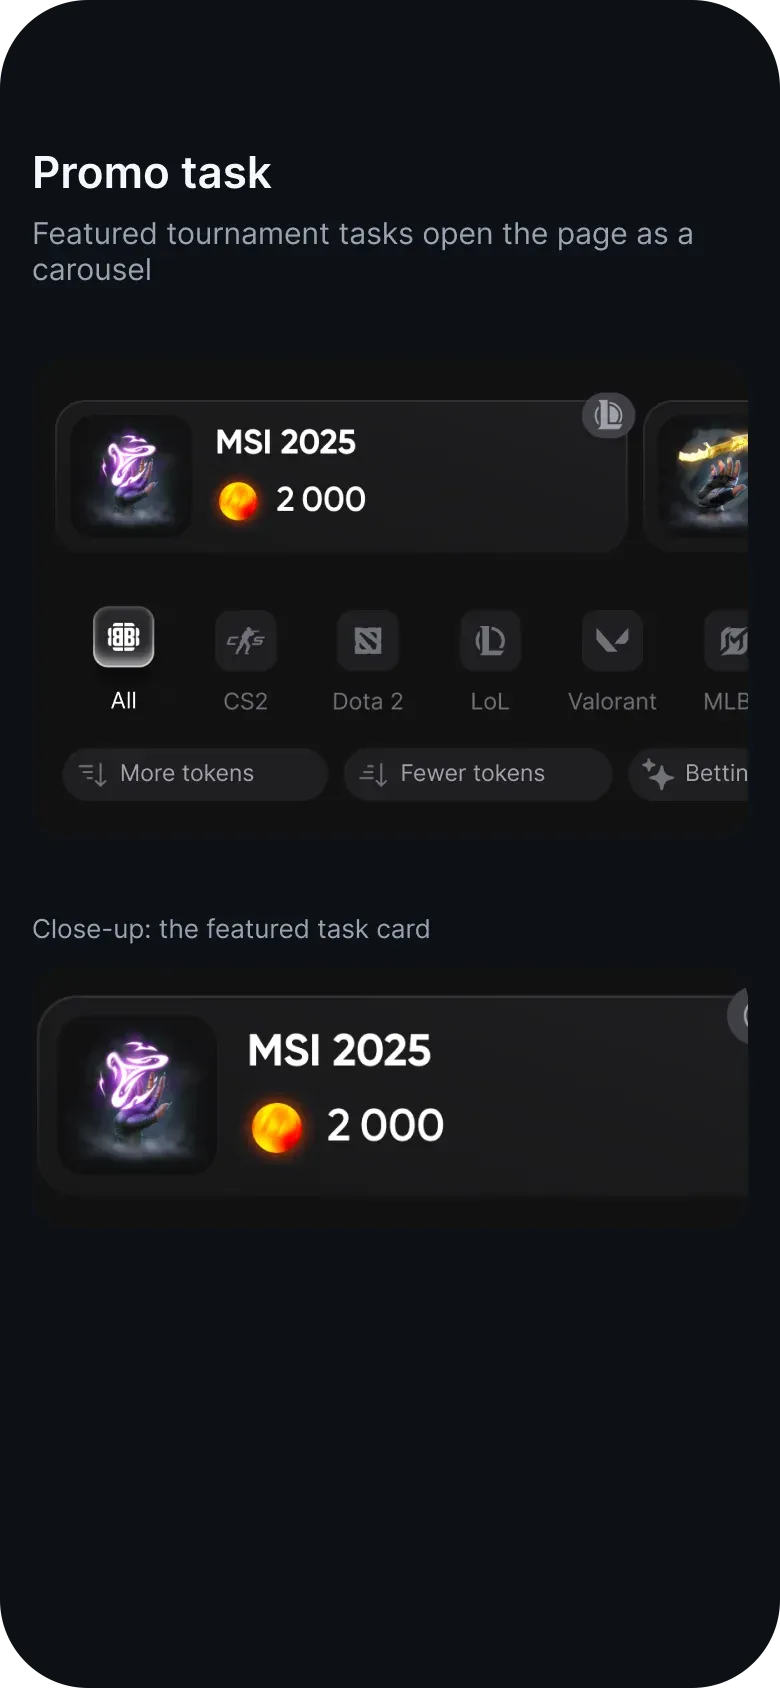
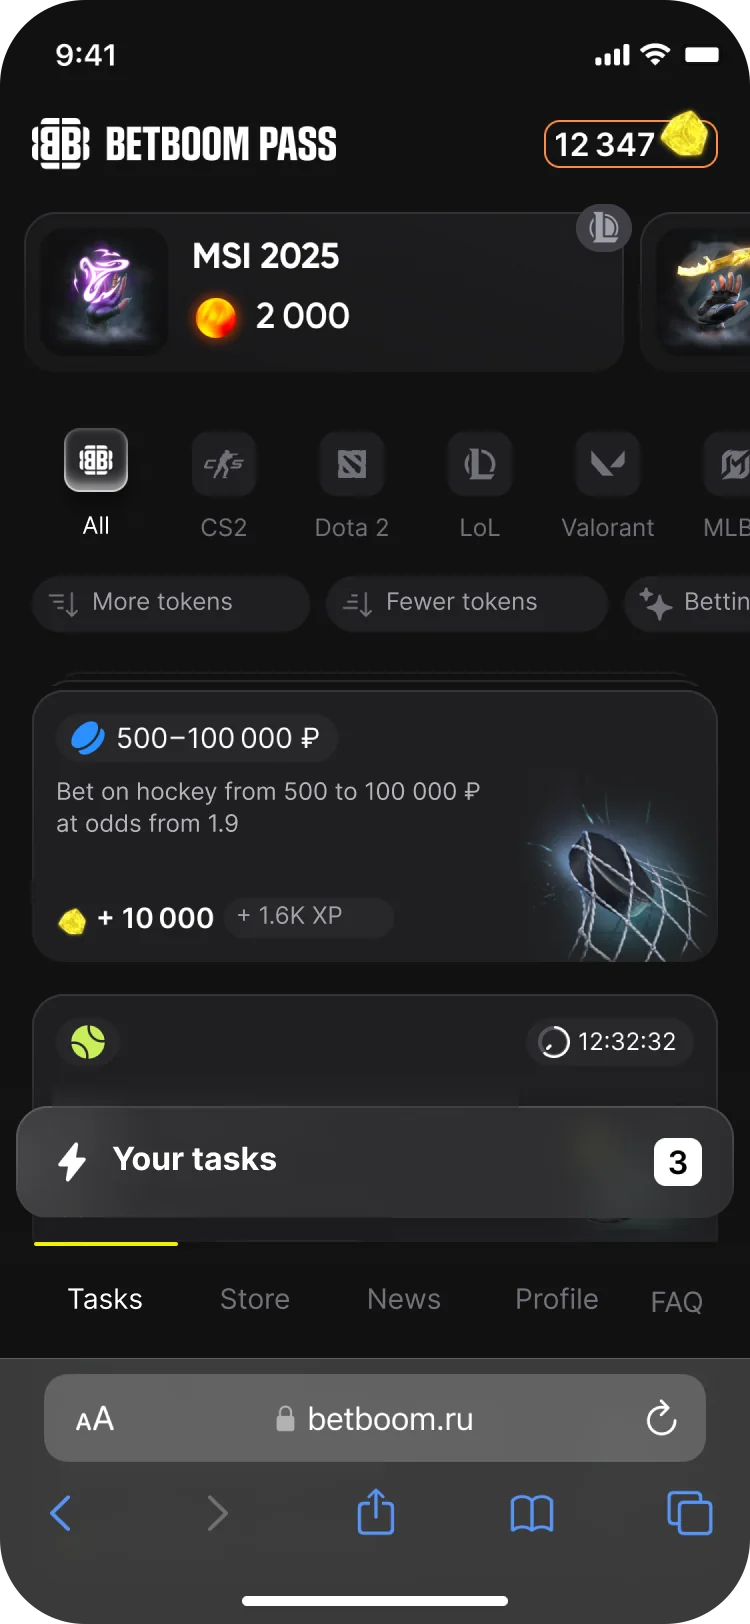
Bring in the v3 screens, the task detail and the category bar credit
Onboarding, reward and deadline, category filters and the top promo
move to v3. The old card close-up gives way to the whole task detail
with stake tiers and rewards, in Flow 1 and in the bento. The category
filters and sport tiles credit the category bar UI to the second
designer; bento tiles can now carry a credit line. The EN A/B clip
loses its caption and credit, the original keeps its own.

diff --git a/src/data/caseStudies.js b/src/data/caseStudies.js
@@ -31,7 +31,7 @@ import betboomEntryMaxLevel from '../assets/cases/betboom/entry-max-level.webp';
 import betboomEntryWeb from '../assets/cases/betboom/entry-web.webp';
 import betboomDesktopBefore from '../assets/cases/betboom/desktop-before.webp';
 import betboomDesktopAfter from '../assets/cases/betboom/desktop-after.webp';
-import betboomDetailConditions from '../assets/cases/betboom/detail-conditions.webp';
+import betboomTaskDetail from '../assets/cases/betboom/task-detail.webp';
 import betboomDetailRewardDeadline from '../assets/cases/betboom/detail-reward-deadline.webp';
 import betboomDetailCategoryFilters from '../assets/cases/betboom/detail-category-filters.webp';
 import betboomDetailSportEsports from '../assets/cases/betboom/detail-sport-esports.webp';
@@ -635,8 +635,6 @@ export const betboomPassCaseStudy = {
                 src: betboomAbTestVideo,
                 alt: 'EN version: the top carousel slides to the next esports tournament, the page loads and a task opens in a popup',
               },
-              caption: 'EN version: esports tasks and the task popup.',
-              credit: betboomWidgetCredit,
             },
           ],
           caption: 'Classic sports tasks added to the existing esports catalog.',
@@ -740,9 +738,9 @@ export const betboomPassCaseStudy = {
               caption: 'Pick a category',
             },
             {
-              src: betboomDetailConditions,
-              alt: 'Task card close-up: stake range, condition, reward and XP',
-              caption: 'Condition and reward on the card',
+              src: betboomTaskDetail,
+              alt: 'Task detail: hockey bets from 500 to 100 000 ₽, stake tiers 500, 1 200, 2 000 and 3 000 ₽ with token and XP rewards',
+              caption: 'Task detail: stake tiers and rewards',
             },
           ],
           caption: betboomWidgetCredit,
@@ -863,28 +861,29 @@ export const betboomPassCaseStudy = {
           tiles: [
             {
               src: betboomDetailCategoryFilters,
-              alt: 'Detail: category icons and sort chips in one strip',
+              alt: 'Task page with Table tennis picked in the category bar, sort chips below and table tennis task cards',
               span: 'third',
               variant: 'whole',
               caption: 'Filters moved to category, because that is how people actually searched.',
+              credit: 'Category bar UI: a second designer.',
             },
             {
-              src: betboomDetailConditions,
-              alt: 'Detail: stake range, condition, reward and XP on a task card',
+              src: betboomTaskDetail,
+              alt: 'Task detail: hockey bets from 500 to 100 000 ₽, stake tiers 500, 1 200, 2 000 and 3 000 ₽ with token and XP rewards',
               span: 'third',
               variant: 'whole',
-              caption: 'The condition sits first; the illustration no longer competes with it.',
+              caption: 'Task detail: stake tiers and rewards.',
             },
             {
               src: betboomDetailPromoTask,
-              alt: 'Detail: featured tournament task as the first card of the top carousel',
+              alt: 'Task page on mobile web: the MSI 2025 promo task leads the top carousel above the category bar and task cards',
               span: 'third',
               variant: 'whole',
               caption: 'Promo tasks reuse the same anatomy.',
             },
             {
               src: betboomDetailRewardDeadline,
-              alt: 'Detail on desktop: category, timer and reward on task cards',
+              alt: 'Reward and deadline: two task cards with a category chip, timer, token reward and XP',
               span: 'full',
               variant: 'whole',
               caption: 'Reward and deadline are readable without opening the card.',
@@ -896,6 +895,7 @@ export const betboomPassCaseStudy = {
               span: 'full',
               variant: 'whole',
               caption: 'One grid holds esports and classic sports without splitting the section.',
+              credit: 'Category bar UI: a second designer.',
             },
           ],
         },

diff --git a/src/pages/BetboomPassPage.jsx b/src/pages/BetboomPassPage.jsx
@@ -461,7 +461,12 @@ function BentoTile({ tile }) {
           <img src={tile.src} alt={tile.alt} />
         )}
       </div>
-      {tile.caption ? <figcaption>{tile.caption}</figcaption> : null}
+      {tile.caption || tile.credit ? (
+        <figcaption>
+          {tile.caption}
+          {tile.credit ? <span className="case-media-caption__credit">{tile.credit}</span> : null}
+        </figcaption>
+      ) : null}
     </figure>
   );
 }
